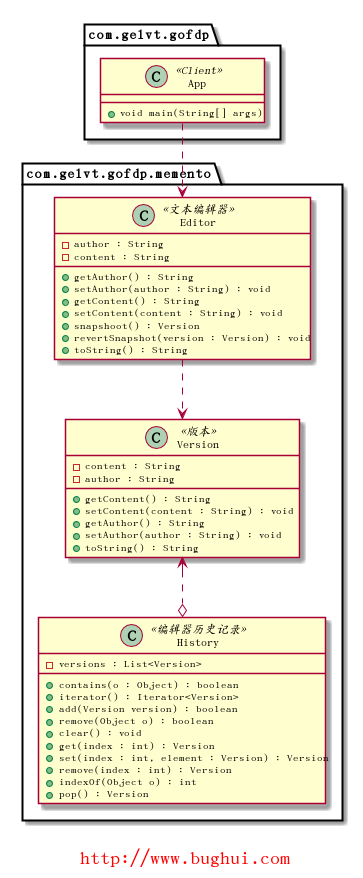
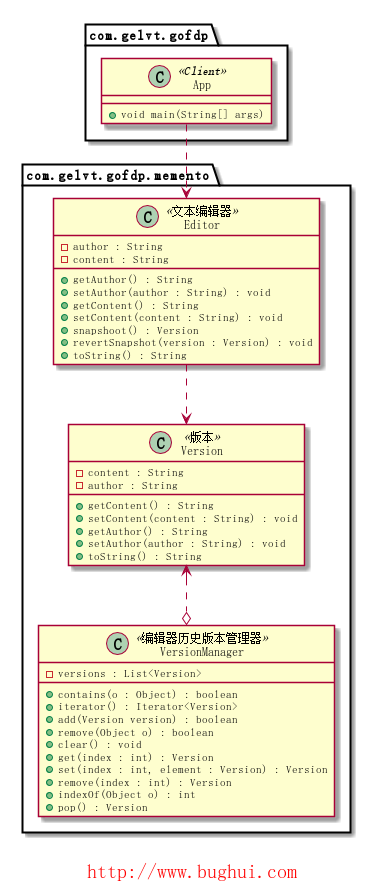
更新备忘录模式

Changed region(s): [[0.0303, 0.0, 0.9697, 1.0], [0.1515, 0.4613, 0.8485, 0.6458]]

diff --git a/memento/src/main/java/com/gelvt/gofdp/App.java b/memento/src/main/java/com/gelvt/gofdp/App.java
@@ -1,7 +1,7 @@
 package com.gelvt.gofdp;
 
 import com.gelvt.gofdp.memento.Editor;
-import com.gelvt.gofdp.memento.History;
+import com.gelvt.gofdp.memento.VersionManager;
 
 /**
  * Client
@@ -11,7 +11,7 @@ import com.gelvt.gofdp.memento.History;
 public class App {
     public static void main(String[] args) {
         Editor editor = new Editor();
-        History history = new History();
+        VersionManager history = new VersionManager();
 
         editor.setAuthor("Elvin Zeng");
         editor.setContent("第一个版本");

diff --git a/memento/src/main/java/com/gelvt/gofdp/memento/VersionManager.java b/memento/src/main/java/com/gelvt/gofdp/memento/VersionManager.java
@@ -5,11 +5,11 @@ import java.util.LinkedList;
 import java.util.List;
 
 /**
- * 编辑器历史记录
+ * 编辑器历史版本管理器
  * @author: Elvin Zeng
  * @date: 17-7-31.
  */
-public class History {
+public class VersionManager {
     private List<Version> versions = new LinkedList<>();
 
     public boolean contains(Object o) {
